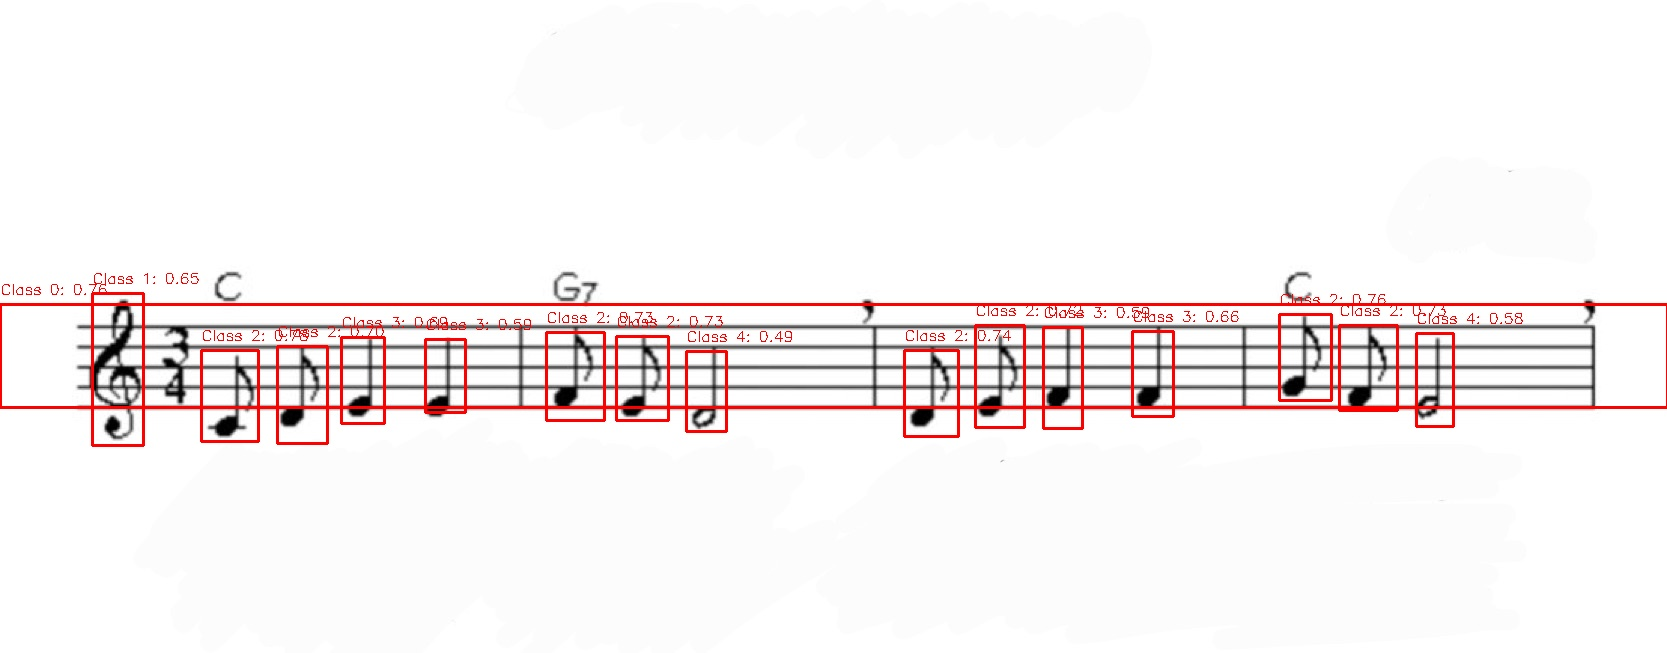
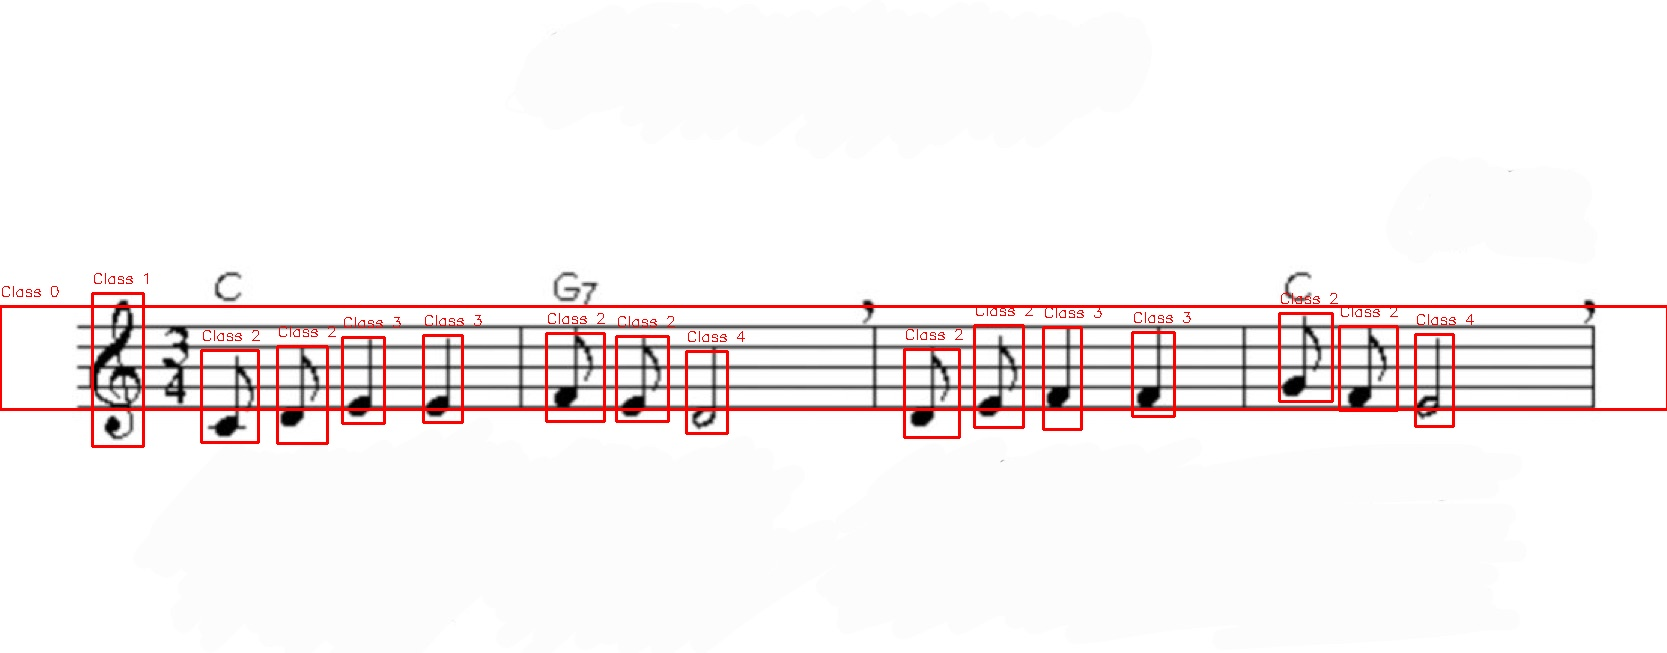
1204

Changed region(s): [[0.0, 0.4288, 1.0, 0.6738], [0.1248, 0.6738, 0.156, 0.7044], [0.0624, 0.6738, 0.0936, 0.7044]]

diff --git a/main.py b/main.py
@@ -20,7 +20,19 @@ model = torch.hub.load('./yolov5', 'custom', path=model_path, source='local')
 # 이미지 로드 및 전처리
 image_path = "apple_c.jpg"
 image = cv2.imread(image_path)
-image_rgb = cv2.cvtColor(image, cv2.COLOR_BGR2RGB)
+
+# 대비 조정 및 전처리
+gray = cv2.cvtColor(image, cv2.COLOR_BGR2GRAY)  # 흑백 변환
+clahe = cv2.createCLAHE(clipLimit=2.0, tileGridSize=(8, 8))
+enhanced = clahe.apply(gray)  # CLAHE 적용
+
+# 노이즈 제거
+blurred = cv2.GaussianBlur(enhanced, (5, 5), 0)
+
+
+# 전처리된 이미지로 YOLO 모델 실행
+image_rgb = cv2.cvtColor(blurred, cv2.COLOR_GRAY2RGB)  # YOLO는 RGB 이미지를 입력으로 사용
+results = model(image_rgb)
 
 # PyTorch 추론
 results = model(image_rgb)
@@ -121,13 +133,22 @@ def draw_note_image(image, bounding_box, note_type, is_ti):
     overlay_image(image, overlay, int(x1), int(y1), width, height)
 
 
+# 탐지 결과를 x1 기준으로 정렬
+sorted_detections = sorted(detections, key=lambda det: det[0])  # x1을 기준으로 정렬
+
 # 탐지 결과 처리
-for detection in detections:
+for detection in sorted_detections:
     x1, y1, x2, y2, confidence, class_id = detection
 
     if confidence > 0.35:
+        # center_y 계산
+        center_y = (y1 + y2) // 2
+
+        # center_y 출력
+        print(f"Class {int(class_id)} | x1: {int(x1)} | center_y: {int(center_y)}")
+
         # 기존 Detection 이미지 출력
-        label = f"Class {int(class_id)}: {confidence:.2f}"
+        label = f"Class {int(class_id)}"
         cv2.rectangle(image, (int(x1), int(y1)),
                       (int(x2), int(y2)), (0, 0, 255), 2)
         cv2.putText(image, label, (int(x1), int(y1) - 10),
@@ -139,15 +160,12 @@ for detection in detections:
         elif class_id == 1:  # 높은 음자리표
             draw_treble_clef_image(new_image, (x1, y1, x2, y2))
         elif class_id == 2:  # 8분 음표
-            center_y = (y1 + y2) // 2
             draw_note_image(new_image, (x1, y1, x2, y2), "eighth",
                             is_ti(center_y, staff_y1, staff_spacing))
         elif class_id == 3:  # 4분 음표
-            center_y = (y1 + y2) // 2
             draw_note_image(new_image, (x1, y1, x2, y2), "quarter",
                             is_ti(center_y, staff_y1, staff_spacing))
         elif class_id == 4:  # 2분 음표
-            center_y = (y1+y2) // 2
             draw_note_image(new_image, (x1, y1, x2, y2), "half",
                             is_ti(center_y, staff_y1, staff_spacing))
 
@@ -155,9 +173,57 @@ for detection in detections:
 cv2.imshow("Detections", image)
 cv2.imwrite("Images/detected_image.jpg", image)
 
-# 새 이미지 출력
-cv2.imshow("New Image", new_image)
+# 새 이미지 (new_image)에 텍스트와 도형 추가
+from PIL import Image, ImageDraw, ImageFont
+
+# OpenCV 이미지 (BGR)를 PIL 이미지 (RGB)로 변환
+pil_image = Image.fromarray(cv2.cvtColor(new_image, cv2.COLOR_BGR2RGB))
+draw = ImageDraw.Draw(pil_image)
+
+# 폰트 설정
+try:
+    font_path = "/System/Library/Fonts/Supplemental/Helvetica.ttc"
+    font = ImageFont.truetype(font_path, 36)  # 폰트 크기 36
+    large_font = ImageFont.truetype(font_path, 60)  # 박자용 폰트 크기를 54로 설정
+
+except:
+    print("기본 폰트를 사용합니다. (크기 조정 불가)")
+    font = ImageFont.load_default()
+
+# 흰색 직사각형 좌표 설정
+rect_top_left = (180, 180)  # 흰색 직사각형의 왼쪽 상단 좌표
+rect_bottom_right = (1600, 300)  # 흰색 직사각형의 오른쪽 하단 좌표
+
+# 흰색 직사각형 그리기
+draw.rectangle([rect_top_left, rect_bottom_right], fill="white")
+
+draw.text((170, 310), "3", fill="black", font=large_font)  # 박자 추가
+draw.text((170, 350), "4", fill="black", font=large_font)  # 박자 추가
+
+# 텍스트 추가
+draw.text((230, 260), "F", fill="black", font=font)
+draw.text((550, 260), "C", fill="black", font=font)
+draw.text((900, 260), "C7", fill="black", font=font)
+draw.text((1300, 260), "F", fill="black", font=font)
+
+# PIL 이미지를 OpenCV 이미지로 다시 변환 (BGR로 변환)
+new_image = cv2.cvtColor(np.array(pil_image), cv2.COLOR_RGB2BGR)
+
+# 마디선의 x 좌표 설정
+bar_positions = [530, 870, 1270]  # F, C, C7, F 사이의 마디선 x 좌표
+
+# 마디선의 y 좌표 설정
+bar_y_start = 305  # 수직선 시작 y 좌표
+bar_y_end = 405    # 수직선 끝 y 좌표
+
+# 이미지에 마디선 그리기
+line_thickness = 2  # 선 두께
+for x in bar_positions:
+    cv2.line(new_image, (x, bar_y_start), (x, bar_y_end), (0, 0, 0), thickness=line_thickness)  # y 좌표 적용
+
+# 수정된 new_image 저장 및 같은 창에 표시
 cv2.imwrite("Images/new_image.jpg", new_image)
+cv2.imshow("New Image", new_image)  # 기존 창 이름 사용
 
 cv2.waitKey(0)
 cv2.destroyAllWindows()
